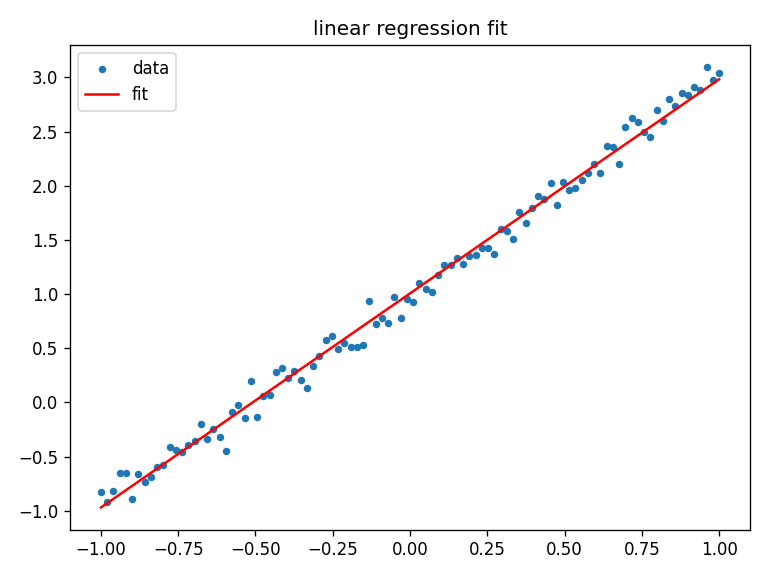
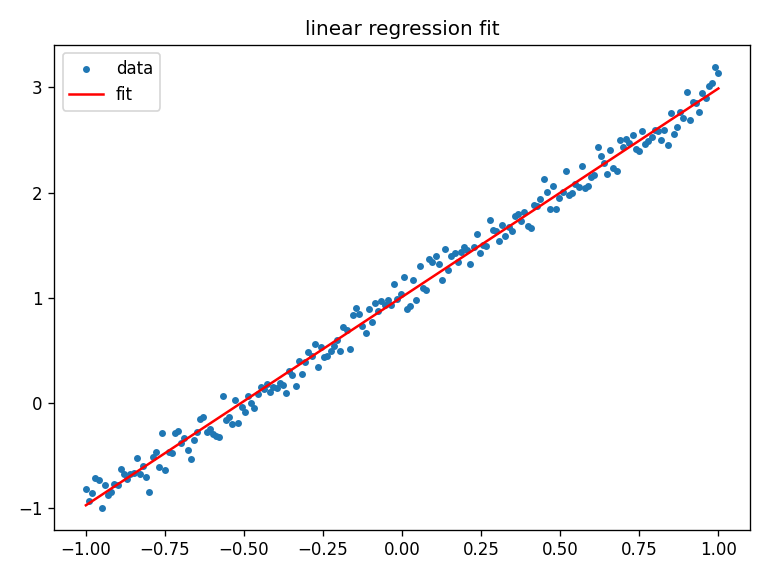
完善第3周：补充batch size对比

diff --git a/deep_learning/week03_dl_basics.py b/deep_learning/week03_dl_basics.py
@@ -1,10 +1,11 @@
-# 第3周：线性回归
+# 第3周：线性回归（对比学习率和batch size）
 
 from pathlib import Path
 import numpy as np
 import matplotlib.pyplot as plt
 import torch
 import torch.nn as nn
+from torch.utils.data import TensorDataset, DataLoader
 
 out_dir = Path(__file__).parent / "output_week03"
 out_dir.mkdir(exist_ok=True)
@@ -12,58 +13,93 @@ out_dir.mkdir(exist_ok=True)
 torch.manual_seed(0)
 np.random.seed(0)
 
-# 1) 造一批假数据：y = 2x + 1 + 一点噪声
-x = np.linspace(-1, 1, 100).reshape(-1, 1).astype(np.float32)
+# 假数据：y ≈ 2x + 1
+x = np.linspace(-1, 1, 200).reshape(-1, 1).astype(np.float32)
 y = (2 * x + 1 + 0.1 * np.random.randn(*x.shape)).astype(np.float32)
-
 x_t = torch.from_numpy(x)
 y_t = torch.from_numpy(y)
+dataset = TensorDataset(x_t, y_t)
 
 
-def train_once(lr, epochs=80):
-    # 最简单的模型：y = wx + b
+def train_by_epoch(lr, epochs=80):
+    # 每一轮用全部数据更新一次（方便只看学习率）
+    torch.manual_seed(0)
     model = nn.Linear(1, 1)
     loss_fn = nn.MSELoss()
     opt = torch.optim.SGD(model.parameters(), lr=lr)
-
     losses = []
     for epoch in range(epochs):
         pred = model(x_t)
         loss = loss_fn(pred, y_t)
-
         opt.zero_grad()
         loss.backward()
         opt.step()
-
         losses.append(loss.item())
-
-    # 看学到的 w, b 接近不接近 2 和 1
-    w = model.weight.item()
-    b = model.bias.item()
-    return losses, w, b
+    return losses, model.weight.item(), model.bias.item()
 
 
-print("开始训练...")
-loss_small, w1, b1 = train_once(lr=0.01)
-loss_big, w2, b2 = train_once(lr=0.1)
+def train_by_batch(lr, batch_size, epochs=40):
+    # 按 batch 训练，用来对比不同 batch size
+    torch.manual_seed(0)
+    model = nn.Linear(1, 1)
+    loss_fn = nn.MSELoss()
+    opt = torch.optim.SGD(model.parameters(), lr=lr)
+    loader = DataLoader(dataset, batch_size=batch_size, shuffle=True)
 
-print("学习率0.01 -> w=%.3f, b=%.3f, 最后loss=%.4f" % (w1, b1, loss_small[-1]))
-print("学习率0.1  -> w=%.3f, b=%.3f, 最后loss=%.4f" % (w2, b2, loss_big[-1]))
+    losses = []
+    for epoch in range(epochs):
+        total = 0.0
+        n = 0
+        for xb, yb in loader:
+            pred = model(xb)
+            loss = loss_fn(pred, yb)
+            opt.zero_grad()
+            loss.backward()
+            opt.step()
+            total += loss.item() * len(xb)
+            n += len(xb)
+        losses.append(total / n)
+    return losses, model.weight.item(), model.bias.item()
 
-# 2) 画 loss 曲线
+
+print("1) 对比学习率")
+loss_lr1, w1, b1 = train_by_epoch(lr=0.01)
+loss_lr2, w2, b2 = train_by_epoch(lr=0.1)
+print("lr=0.01 -> w=%.3f b=%.3f loss=%.4f" % (w1, b1, loss_lr1[-1]))
+print("lr=0.1  -> w=%.3f b=%.3f loss=%.4f" % (w2, b2, loss_lr2[-1]))
+
 plt.figure()
-plt.plot(loss_small, label="lr=0.01")
-plt.plot(loss_big, label="lr=0.1")
+plt.plot(loss_lr1, label="lr=0.01")
+plt.plot(loss_lr2, label="lr=0.1")
 plt.xlabel("epoch")
 plt.ylabel("loss")
-plt.title("week03 loss curve")
+plt.title("loss vs learning rate")
 plt.legend()
 plt.grid(True)
 plt.tight_layout()
 plt.savefig(out_dir / "loss_curve.png", dpi=120)
-print("已保存:", out_dir / "loss_curve.png")
+print("保存", out_dir / "loss_curve.png")
 
-# 3) 再画一下拟合效果（用 lr=0.1 那个）
+print("2) 对比 batch size")
+loss_bs16, w3, b3 = train_by_batch(lr=0.05, batch_size=16)
+loss_bs64, w4, b4 = train_by_batch(lr=0.05, batch_size=64)
+print("bs=16 -> w=%.3f b=%.3f loss=%.4f" % (w3, b3, loss_bs16[-1]))
+print("bs=64 -> w=%.3f b=%.3f loss=%.4f" % (w4, b4, loss_bs64[-1]))
+
+plt.figure()
+plt.plot(loss_bs16, label="batch=16")
+plt.plot(loss_bs64, label="batch=64")
+plt.xlabel("epoch")
+plt.ylabel("loss")
+plt.title("loss vs batch size")
+plt.legend()
+plt.grid(True)
+plt.tight_layout()
+plt.savefig(out_dir / "loss_curve_batch.png", dpi=120)
+print("保存", out_dir / "loss_curve_batch.png")
+
+# 拟合图（用效果较好的 lr=0.1）
+torch.manual_seed(0)
 model = nn.Linear(1, 1)
 loss_fn = nn.MSELoss()
 opt = torch.optim.SGD(model.parameters(), lr=0.1)
@@ -78,11 +114,11 @@ with torch.no_grad():
     y_pred = model(x_t).numpy()
 
 plt.figure()
-plt.scatter(x, y, s=12, label="data")
+plt.scatter(x, y, s=10, label="data")
 plt.plot(x, y_pred, color="red", label="fit")
 plt.legend()
 plt.title("linear regression fit")
 plt.tight_layout()
 plt.savefig(out_dir / "fit_result.png", dpi=120)
-print("已保存:", out_dir / "fit_result.png")
+print("保存", out_dir / "fit_result.png")
 print("第3周完成")

diff --git a/notes/week03.md b/notes/week03.md
@@ -1,45 +1,43 @@
 第3周笔记
 
-日期：2026-08-08
+日期：2026-08-15
 代码：deep_learning/week03_dl_basics.py
 
 1. 这周做了啥
 
-用PyTorch跑了一个最简单的线性回归。
-数据是自己造的：大概符合 y = 2x + 1。
-训练时试了两个学习率 0.01 和 0.1，并保存了loss曲线。
+用PyTorch做线性回归，数据大概是 y=2x+1。
+做了两组对比：
+(1) 学习率 0.01 和 0.1
+(2) batch size 16 和 64
 
 2. 概念
 
 (1) 张量
-可以先理解成PyTorch里的数组，用来存数据和模型参数。
+PyTorch里的数组，用来存数据和参数。
 
 (2) 模型
-这里就是一条直线：y = wx + b。
-训练目标是让w接近2，b接近1。
+这里是直线 y=wx+b。
 
 (3) loss
-预测值和真实值差多少。这里用的是均方误差MSE。
-loss越小，说明拟合得越好。
+预测和真实值差多少，这里用MSE。
 
-(4) 优化器 / 梯度下降
-根据loss调整w和b。
-学习率lr控制每次调整步子多大。
+(4) 学习率 lr
+每次更新参数步子多大。太小学得慢，合适时降得更快。
 
-(5) 反向传播
-backward用来算参数该怎么改。
+(5) batch size
+每次拿多少条数据更新一次。
+batch小：同一轮里更新次数更多；batch大：更新更稳但次数少。
 
 (6) 一次训练
-先预测，再算loss，然后backward，最后step更新参数。
-多轮epoch就是把这个重复做。
+预测 -> 算loss -> backward -> step。
 
 3. 结果
 
-loss_curve.png里两条曲线整体都在下降。
-fit_result.png里红线和数据点比较接近。
+loss_curve.png：lr=0.1 比 0.01 降得更快，w、b也更接近2和1。
+loss_curve_batch.png：batch=16 和 batch=64 都能下降，曲线不完全一样。
+fit_result.png：拟合直线和数据点比较接近。
 
-lr=0.01学得慢一些，lr=0.1这批数据上更快，最后w和b也更接近2和1。
+4. 一点体会
 
-4. 遇到的问题
-
-名词有点多，后来就按预测、算误差、更新参数这个顺序记。
+学习率和batch都会影响训练快慢和曲线形状。
+这周先把训练循环跑通，后面分类任务还会再用到这些参数。
